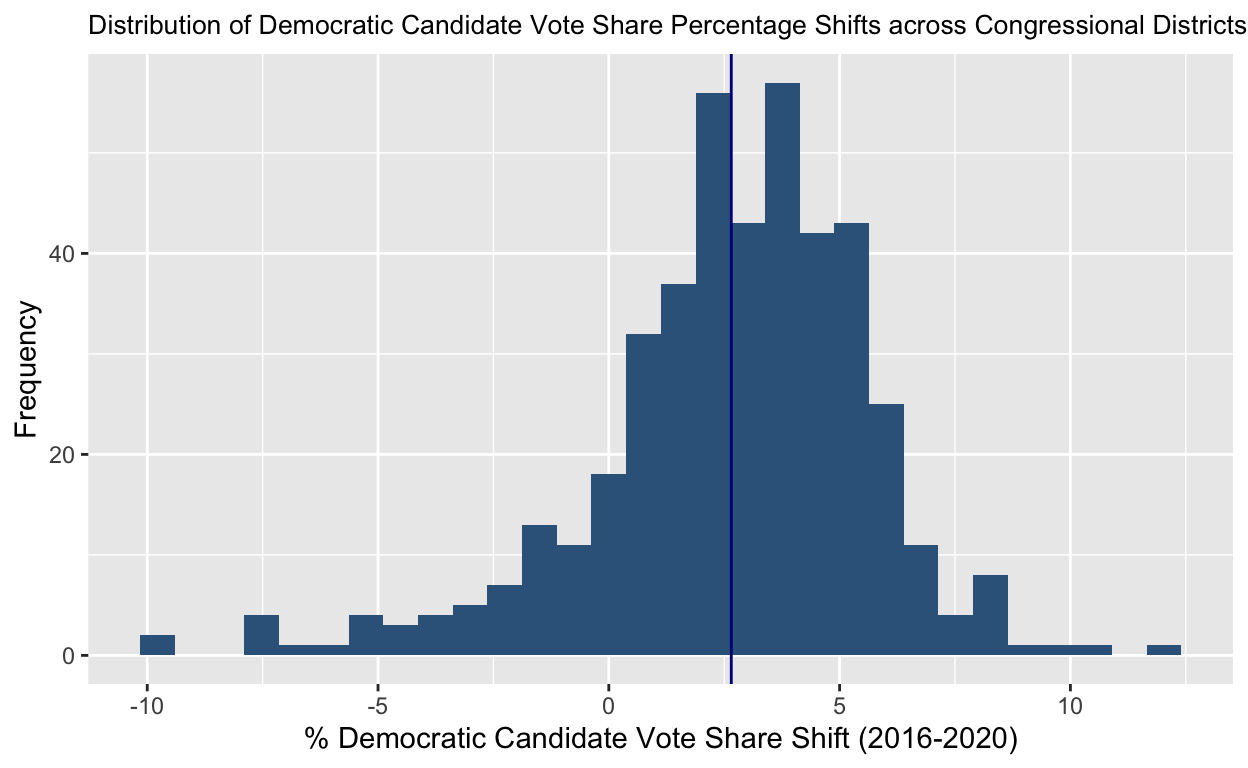
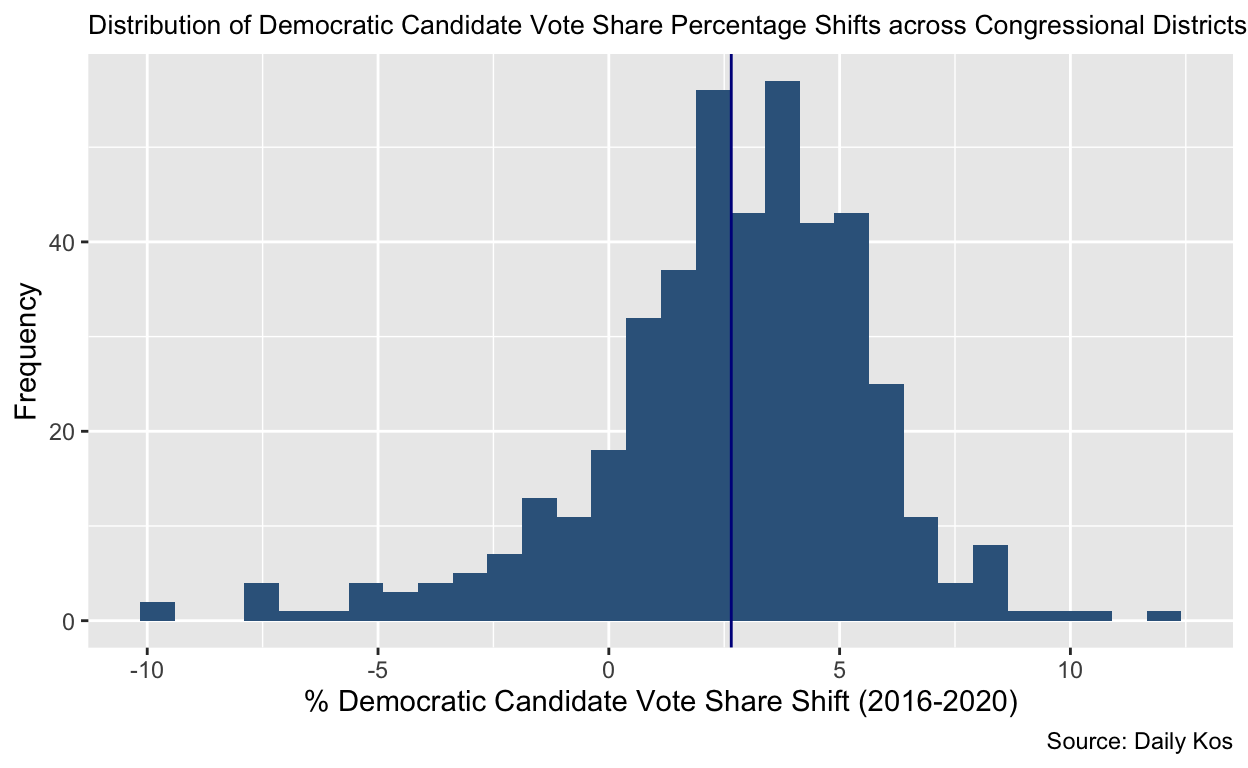
updated graphs

diff --git a/index.html b/index.html
@@ -1948,7 +1948,8 @@ Alabama
 <span>  <span class='fu'><a href='https://ggplot2.tidyverse.org/reference/labs.html'>labs</a></span><span class='op'>(</span></span>
 <span>    title <span class='op'>=</span> <span class='st'>"Distribution of Democratic Candidate Vote Share Percentage Shifts across Congressional Districts"</span>, </span>
 <span>    x <span class='op'>=</span> <span class='st'>"% Democratic Candidate Vote Share Shift (2016-2020)"</span>, </span>
-<span>    y <span class='op'>=</span> <span class='st'>"Frequency"</span></span>
+<span>    y <span class='op'>=</span> <span class='st'>"Frequency"</span>, </span>
+<span>    caption <span class='op'>=</span> <span class='st'>"Source: Daily Kos"</span></span>
 <span>  <span class='op'>)</span> <span class='op'>+</span> </span>
 <span>  <span class='fu'><a href='https://ggplot2.tidyverse.org/reference/theme.html'>theme</a></span><span class='op'>(</span>plot.title <span class='op'>=</span> <span class='fu'><a href='https://ggplot2.tidyverse.org/reference/element.html'>element_text</a></span><span class='op'>(</span>size <span class='op'>=</span> <span class='st'>"10"</span><span class='op'>)</span><span class='op'>)</span></span></code></pre>
 </div>
@@ -2283,7 +2284,7 @@ for_pop_perc_increase
 <ul>
 <li>Arel-Bundock, Vincent. “modelsummary: Data and Model Summaries in R”. <em>Journal of Statistical Software</em> <em>103</em>. 1(2022): 1–23.</li>
 <li>Daily Kos Staff. “The Ultimate Daily Kos Elections Guide to All of Our Data Sets.” <em>Daily Kos Data</em>, Daily Kos, 21 Sept. 2022, <a href="https://www.dailykos.com/stories/2022/9/21/1742660/-The-ultimate-Daily-Kos-Elections-guide-to-all-of-our-data-sets" class="uri">https://www.dailykos.com/stories/2022/9/21/1742660/-The-ultimate-Daily-Kos-Elections-guide-to-all-of-our-data-sets</a>.</li>
-<li>McCrain, Josh. "Descriptive Statistics and Visualizations." <em>Congressional Data in R</em>, joshmccrain.com, 2020, <a href="https://congressdata.joshuamccrain.com/visualization.html" class="uri">https://congressdata.joshuamccrain.com/visualization.html</a>.</li>
+<li>McCrain, Josh. “Descriptive Statistics and Visualizations.” <em>Congressional Data in R</em>, joshmccrain.com, 2020, <a href="https://congressdata.joshuamccrain.com/visualization.html" class="uri">https://congressdata.joshuamccrain.com/visualization.html</a>.</li>
 <li>U.S. Census Bureau. “2016-2021 American Community Survey 5-Year Estimates Data Profiles.” <em>U.S. Census Bureau</em>, United States Census Bureau, 2022, <a href="https://data.census.gov/table/ACSDP1Y2022.DP02?q=Native+and+Foreign+Born&amp;g=010XX00US$5000000" class="uri">https://data.census.gov/table/ACSDP1Y2022.DP02?q=Native+and+Foreign+Born&amp;g=010XX00US$5000000</a>.</li>
 </ul>
 <div class="sourceCode" id="cb1"><pre class="sourceCode r distill-force-highlighting-css"><code class="sourceCode r"></code></pre></div>
